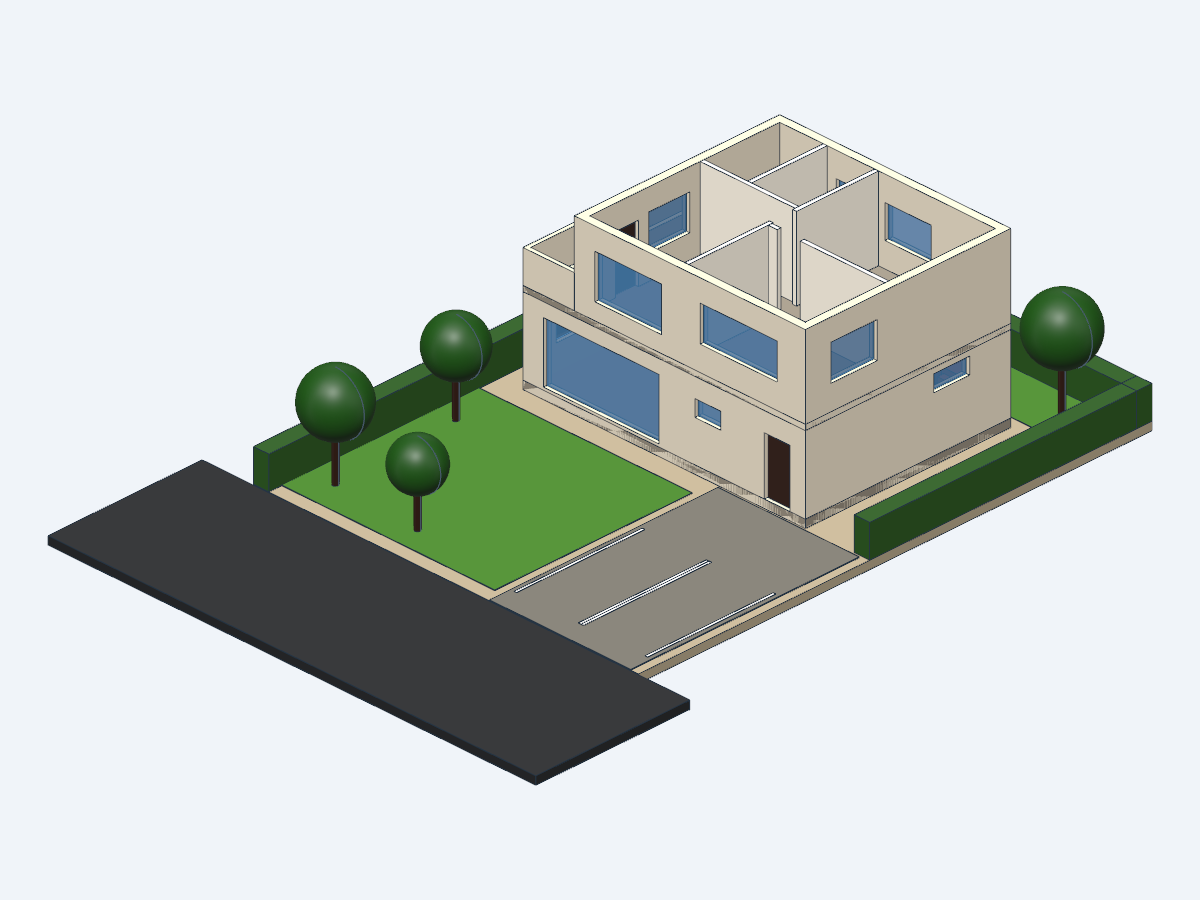
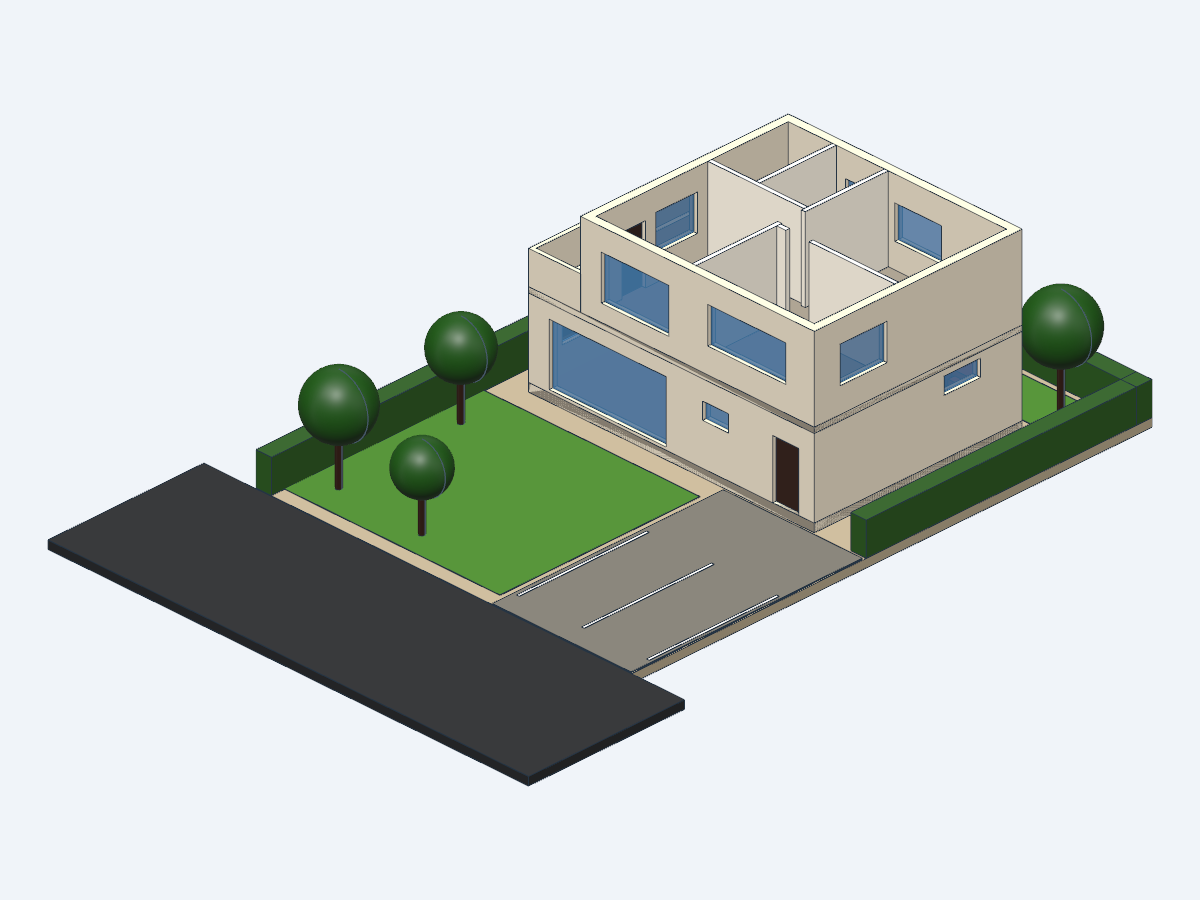
Move house site to Gyeongsan 4 industrial complex housing lots near Kyungil Univ.
Lot becomes an average 14.5 x 20 m (290 m2) parcel in Jillyang-eup,
Gyeongsan; checks use the complex's detached-housing limits (Class 1 general
residential, coverage 60%, FAR 180%, 3 storeys). Lot number still to be
picked from the KICOX lot map.

Claude-Session: https://claude.ai/code/session_01HkcFpm3UNzZLeJr3z9MnjB

diff --git a/house/house.py b/house/house.py
@@ -1,8 +1,10 @@
 """2층 단독주택 + 대지 모델 (text-to-cad / build123d).
 
 좌표: X = 동(東), Y = 북(北), Z = 위. 모델 단위는 mm이고, 아래 치수는 m로 쓰고 M()으로 바꾼다.
-대지: 경기도 성남시 분당구 운중동(서판교 단독주택단지), 제1종전용주거지역·지구단위계획구역.
-     지번은 토지이음에서 확인해 채운다. 대지 형상은 대표 필지 15 m x 20 m (300 ㎡), 남측 6 m 도로로 가정.
+대지: 경북 경산시 진량읍 신제리·다문리 일원, 경산4일반산업단지 단독주택용지 (경일대 인근).
+     제1종일반주거지역, 건폐율 60 %, 용적률 180 %, 3층 이하 (산단 단독주택용지 기준).
+     86필지·약 25,000 ㎡ -> 필지 평균 약 290 ㎡. 필지 번호(지번)는 분양 필지도에서 확인해 채운다.
+     대지 형상은 평균 필지 14.5 m x 20 m (290 ㎡), 남측 6 m 도로로 가정.
 법규 검토 수치는 house/check.py가 이 파일의 상수로 계산한다.
 """
 
@@ -10,7 +12,7 @@ import build123d as bd
 from cad import model
 
 # ---------------------------------------------------------------- 치수 (m)
-LOT_W, LOT_D = 15.0, 20.0          # 대지 동서 x 남북
+LOT_W, LOT_D = 14.5, 20.0          # 대지 동서 x 남북
 ROAD_W = 6.0                       # 남측 도로 폭
 
 WALL = 0.30                        # 외벽 두께 (RC 200 + 단열·마감)
@@ -41,7 +43,7 @@ TREAD = 0.26
 STAIR_W = 1.0
 STAIR = (10.1, 13.62, 12.2, 16.7)  # 계단실 평면 범위 (x0, y0, x1, y1)
 
-PARKING = [(9.4, 0.8), (12.0, 0.8)]  # 주차 2대, 각 2.5 x 5.0 m (일반형)
+PARKING = [(9.3, 0.8), (11.8, 0.8)]  # 주차 2대, 각 2.5 x 5.0 m (일반형)
 PARK_W, PARK_D = 2.5, 5.0
 
 GARDEN = (0.5, 0.5, 8.9, 8.2)      # 앞마당 잔디·조경
@@ -224,8 +226,8 @@ def site():
     ground = tag(box(0, 0, -0.3, LOT_W, LOT_D, GL), "lot_300m2", "#cfc6b4")
     road = tag(box(-2, -ROAD_W, -0.32, LOT_W + 2, 0, -0.02), "road_6m", "#55585c")
     garden = tag(box(*GARDEN[:2], GL, *GARDEN[2:], GL + 0.02), "garden", "#7fae5a")
-    north_garden = tag(box(0.5, 17.4, GL, 14.5, 19.5, GL + 0.02), "north_garden", "#7fae5a")
-    pave = tag(box(9.2, 0, GL, 14.7, 8.9, GL + 0.03), "parking_pave", "#a7a49d")
+    north_garden = tag(box(0.8, 17.4, GL, LOT_W - 0.8, 19.2, GL + 0.02), "north_garden", "#7fae5a")
+    pave = tag(box(9.1, 0, GL, LOT_W - 0.05, 8.9, GL + 0.03), "parking_pave", "#a7a49d")
     lines = []
     for px, py in PARKING:
         for dx in (0, PARK_W):
@@ -238,7 +240,7 @@ def site():
         box(LOT_W - 0.6, 9.0, GL, LOT_W, LOT_D, 1.2),
     ]), "hedge_1200", "#5e8f45")
     trees = []
-    for x, y, h in [(1.6, 1.6, 4.0), (5.0, 1.4, 3.2), (1.4, 6.5, 3.6), (13.0, 18.5, 4.2), (3.0, 18.6, 3.8)]:
+    for x, y, h in [(1.6, 1.6, 4.0), (5.0, 1.4, 3.2), (1.4, 6.5, 3.6), (12.6, 18.4, 4.2), (3.0, 18.6, 3.8)]:
         trunk = bd.Pos(M(x), M(y), 0) * bd.Cylinder(120, M(h * 0.5), align=(bd.Align.CENTER, bd.Align.CENTER, bd.Align.MIN))
         crown = bd.Pos(M(x), M(y), M(h * 0.65)) * bd.Sphere(M(h * 0.28))
         trees += [tag(trunk, "trunk", "#6b4a2b"), tag(crown, "crown", "#4f8a3c")]
@@ -266,7 +268,7 @@ def house():
             f = fills(b, ops, kind, f"{kind}s_{n}", color)
             if f is not None:
                 parts.append(f)
-    return bd.Compound(children=parts, label="house_seopangyo_unjung_300m2")
+    return bd.Compound(children=parts, label="house_gyeongsan4_jinryang_290m2")
 
 
 if __name__ == "__main__":

diff --git a/house/check.py b/house/check.py
@@ -11,7 +11,7 @@ def area(b):
 lot = LOT_W * LOT_D
 footprint = area(B1)                      # 처마 내밀기 1 m 미만 -> 건축면적 불산입
 gfa = area(B1) + area(B2)
-landscape = area(GARDEN) + (14.5 - 0.5) * (19.5 - 17.4)
+landscape = area(GARDEN) + (LOT_W - 1.6) * (19.2 - 17.4)
 height = house().shape.bounding_box().max.Z / 1000.0
 north_gap = LOT_D - B1[3]
 setbacks = {"서": B1[0], "동": LOT_W - B1[2], "북": north_gap, "남": B1[1]}
@@ -19,20 +19,20 @@ need_park = 1 + max(0.0, gfa - 150) / 100     # 주차장법 시행령 별표1: 
 need_park = int(need_park + 0.5)              # 0.5 미만 버림
 
 rows = [
-    ("건폐율", f"{footprint:.1f}/{lot:.0f} = {footprint / lot:.1%}", "≤ 50%", footprint / lot <= 0.50,
-     "국토계획법 시행령 제84조 (제1종전용주거), 지구단위계획"),
-    ("용적률", f"{gfa:.1f}/{lot:.0f} = {gfa / lot:.1%}", "≤ 100% (법정 50~100%)", gfa / lot <= 1.00,
-     "국토계획법 시행령 제85조"),
-    ("층수·높이", f"2층, 최고높이 {height:.2f} m", "2층 이하 (지구단위계획 가정)", True,
-     "지구단위계획 (확인 필요)"),
+    ("건폐율", f"{footprint:.1f}/{lot:.0f} = {footprint / lot:.1%}", "≤ 60%", footprint / lot <= 0.60,
+     "제1종일반주거, 경산4산단 단독주택용지 기준"),
+    ("용적률", f"{gfa:.1f}/{lot:.0f} = {gfa / lot:.1%}", "≤ 180%", gfa / lot <= 1.80,
+     "경산4산단 단독주택용지 기준"),
+    ("층수·높이", f"2층, 최고높이 {height:.2f} m", "3층 이하", True,
+     "경산4산단 단독주택용지 기준"),
     ("정북 일조", f"북측 경계 이격 {north_gap:.1f} m", "높이 10 m 이하 부분 ≥ 1.5 m",
      height <= 10 and north_gap >= 1.5, "건축법 시행령 제86조"),
-    ("접도", f"폭 {ROAD_W:.0f} m 도로에 {LOT_W:.0f} m 접함", "4 m 이상 도로에 2 m 이상", True,
+    ("접도", f"폭 {ROAD_W:.0f} m 도로에 {LOT_W:.1f} m 접함", "4 m 이상 도로에 2 m 이상", True,
      "건축법 제44조"),
     ("주차", f"{len(PARKING)}대 ({PARK_W} x {PARK_D} m)", f"{need_park}대 이상", len(PARKING) >= need_park,
      "주차장법 시행령 별표1, 시행규칙 제3조"),
     ("조경", f"{landscape:.1f} ㎡ ({landscape / lot:.0%})", "조례 기준 (통상 대지의 10~15%)",
-     landscape / lot >= 0.15, "건축법 제42조, 성남시 건축조례"),
+     landscape / lot >= 0.15, "건축법 제42조, 경산시 건축조례"),
     ("계단", f"단높이 {RISE * 1000:.1f}, 단너비 {TREAD * 1000:.0f}, 너비 {STAIR_W * 1000:.0f} mm",
      "≤ 200 / ≥ 240 / ≥ 600 mm", RISE <= 0.2 and TREAD >= 0.24 and STAIR_W >= 0.6,
      "피난·방화구조 규칙 제15조"),

diff --git a/house/README.md b/house/README.md
@@ -1,4 +1,4 @@
-# 2층 단독주택 (성남시 분당구 운중동, 서판교 단독주택단지)
+# 2층 단독주택 (경산4일반산업단지 단독주택용지, 경일대 인근)
 
 text-to-cad(build123d)로 만든 대지 + 주택 3D 모델입니다.
 
@@ -9,11 +9,11 @@ text-to-cad(build123d)로 만든 대지 + 주택 3D 모델입니다.
 
 ## 대지
 
-- 위치: 경기도 성남시 분당구 운중동, 서판교 단독주택단지 (제1종전용주거지역, 지구단위계획구역)
-- 지번: **미확정**입니다. 토지이음(eum.go.kr)에서 필지를 골라 지번·면적·형상을 확인한 뒤 `house.py`의 `LOT_W`, `LOT_D`를 고칩니다.
-- 대지 형상은 이 단지의 대표 필지 크기로 가정했습니다: 15 m(동서) × 20 m(남북) = 300 ㎡, 남측 6 m 도로.
-- 지구단위계획 기준(건폐율 50 %, 용적률 100 %, 2층 이하, 생울타리·투시형 담장)은 일반적으로 알려진 값으로,
-  해당 필지의 결정도서로 확인해야 합니다.
+- 위치: 경상북도 경산시 진량읍 신제리·다문리 일원, 경산4일반산업단지 단독주택용지 (경일대에서 가까운 신규 택지)
+- 기준: 제1종일반주거지역, 건폐율 60 % 이하, 용적률 180 % 이하, 3층 이하, 단독주택·점포주택 허용
+- 단독주택용지는 86필지, 총 약 25,000 ㎡로 필지 평균은 약 290 ㎡입니다.
+- 필지 번호(지번)는 **미확정**입니다. 한국산업단지공단 분양 필지도에서 필지를 고르면 `house.py`의 `LOT_W`, `LOT_D`를 맞춥니다.
+- 대지 형상은 평균 필지로 가정했습니다: 14.5 m(동서) × 20 m(남북) = 290 ㎡, 남측 6 m 도로.
 
 ## 건물 개요
 
@@ -26,16 +26,16 @@ text-to-cad(build123d)로 만든 대지 + 주택 3D 모델입니다.
 
 | 항목 | 계획 | 기준 | 근거 |
 | --- | --- | --- | --- |
-| 건폐율 | 29.3 % | ≤ 50 % | 국토계획법 시행령 제84조, 지구단위계획 |
-| 용적률 | 53.3 % | ≤ 100 % | 국토계획법 시행령 제85조 |
-| 층수 | 2층 | 2층 이하 (지구단위계획 가정) | 지구단위계획 |
+| 건폐율 | 30.3 % | ≤ 60 % | 경산4산단 단독주택용지 기준 |
+| 용적률 | 55.2 % | ≤ 180 % | 경산4산단 단독주택용지 기준 |
+| 층수 | 2층 | 3층 이하 | 경산4산단 단독주택용지 기준 |
 | 정북 일조 | 북측 경계에서 3.0 m | 높이 10 m 이하 부분 ≥ 1.5 m | 건축법 시행령 제86조 |
-| 접도 | 6 m 도로에 15 m 접함 | 4 m 도로에 2 m 이상 | 건축법 제44조 |
+| 접도 | 6 m 도로에 14.5 m 접함 | 4 m 도로에 2 m 이상 | 건축법 제44조 |
 | 주차 | 2대 | 1대 (연면적 160 ㎡) | 주차장법 시행령 별표1 |
-| 조경 | 94 ㎡ (31 %) | 조례 기준 | 건축법 제42조 |
+| 조경 | 88 ㎡ (30 %) | 조례 기준 | 건축법 제42조 |
 | 계단 | 단높이 176.5 / 단너비 260 / 너비 1,000 mm | ≤ 200 / ≥ 240 / ≥ 600 mm | 피난·방화구조 규칙 제15조 |
 | 난간 | 1,200 mm | ≥ 1,200 mm | 건축법 시행령 제40조 |
-| 인접 이격 | 서 1.5 / 동 2.5 / 북 3.0 / 남 9.0 m | ≥ 0.5 m | 민법 제242조 |
+| 인접 이격 | 서 1.5 / 동 2.0 / 북 3.0 / 남 9.0 m | ≥ 0.5 m | 민법 제242조 |
 
 **주의**: 이 모델은 개념 설계입니다. 실제 인허가에는 해당 필지의 토지이용계획확인원(지구단위계획 포함),
 지자체 조례, 구조·에너지(단열)·소방 기준 검토와 건축사 설계가 필요합니다.
